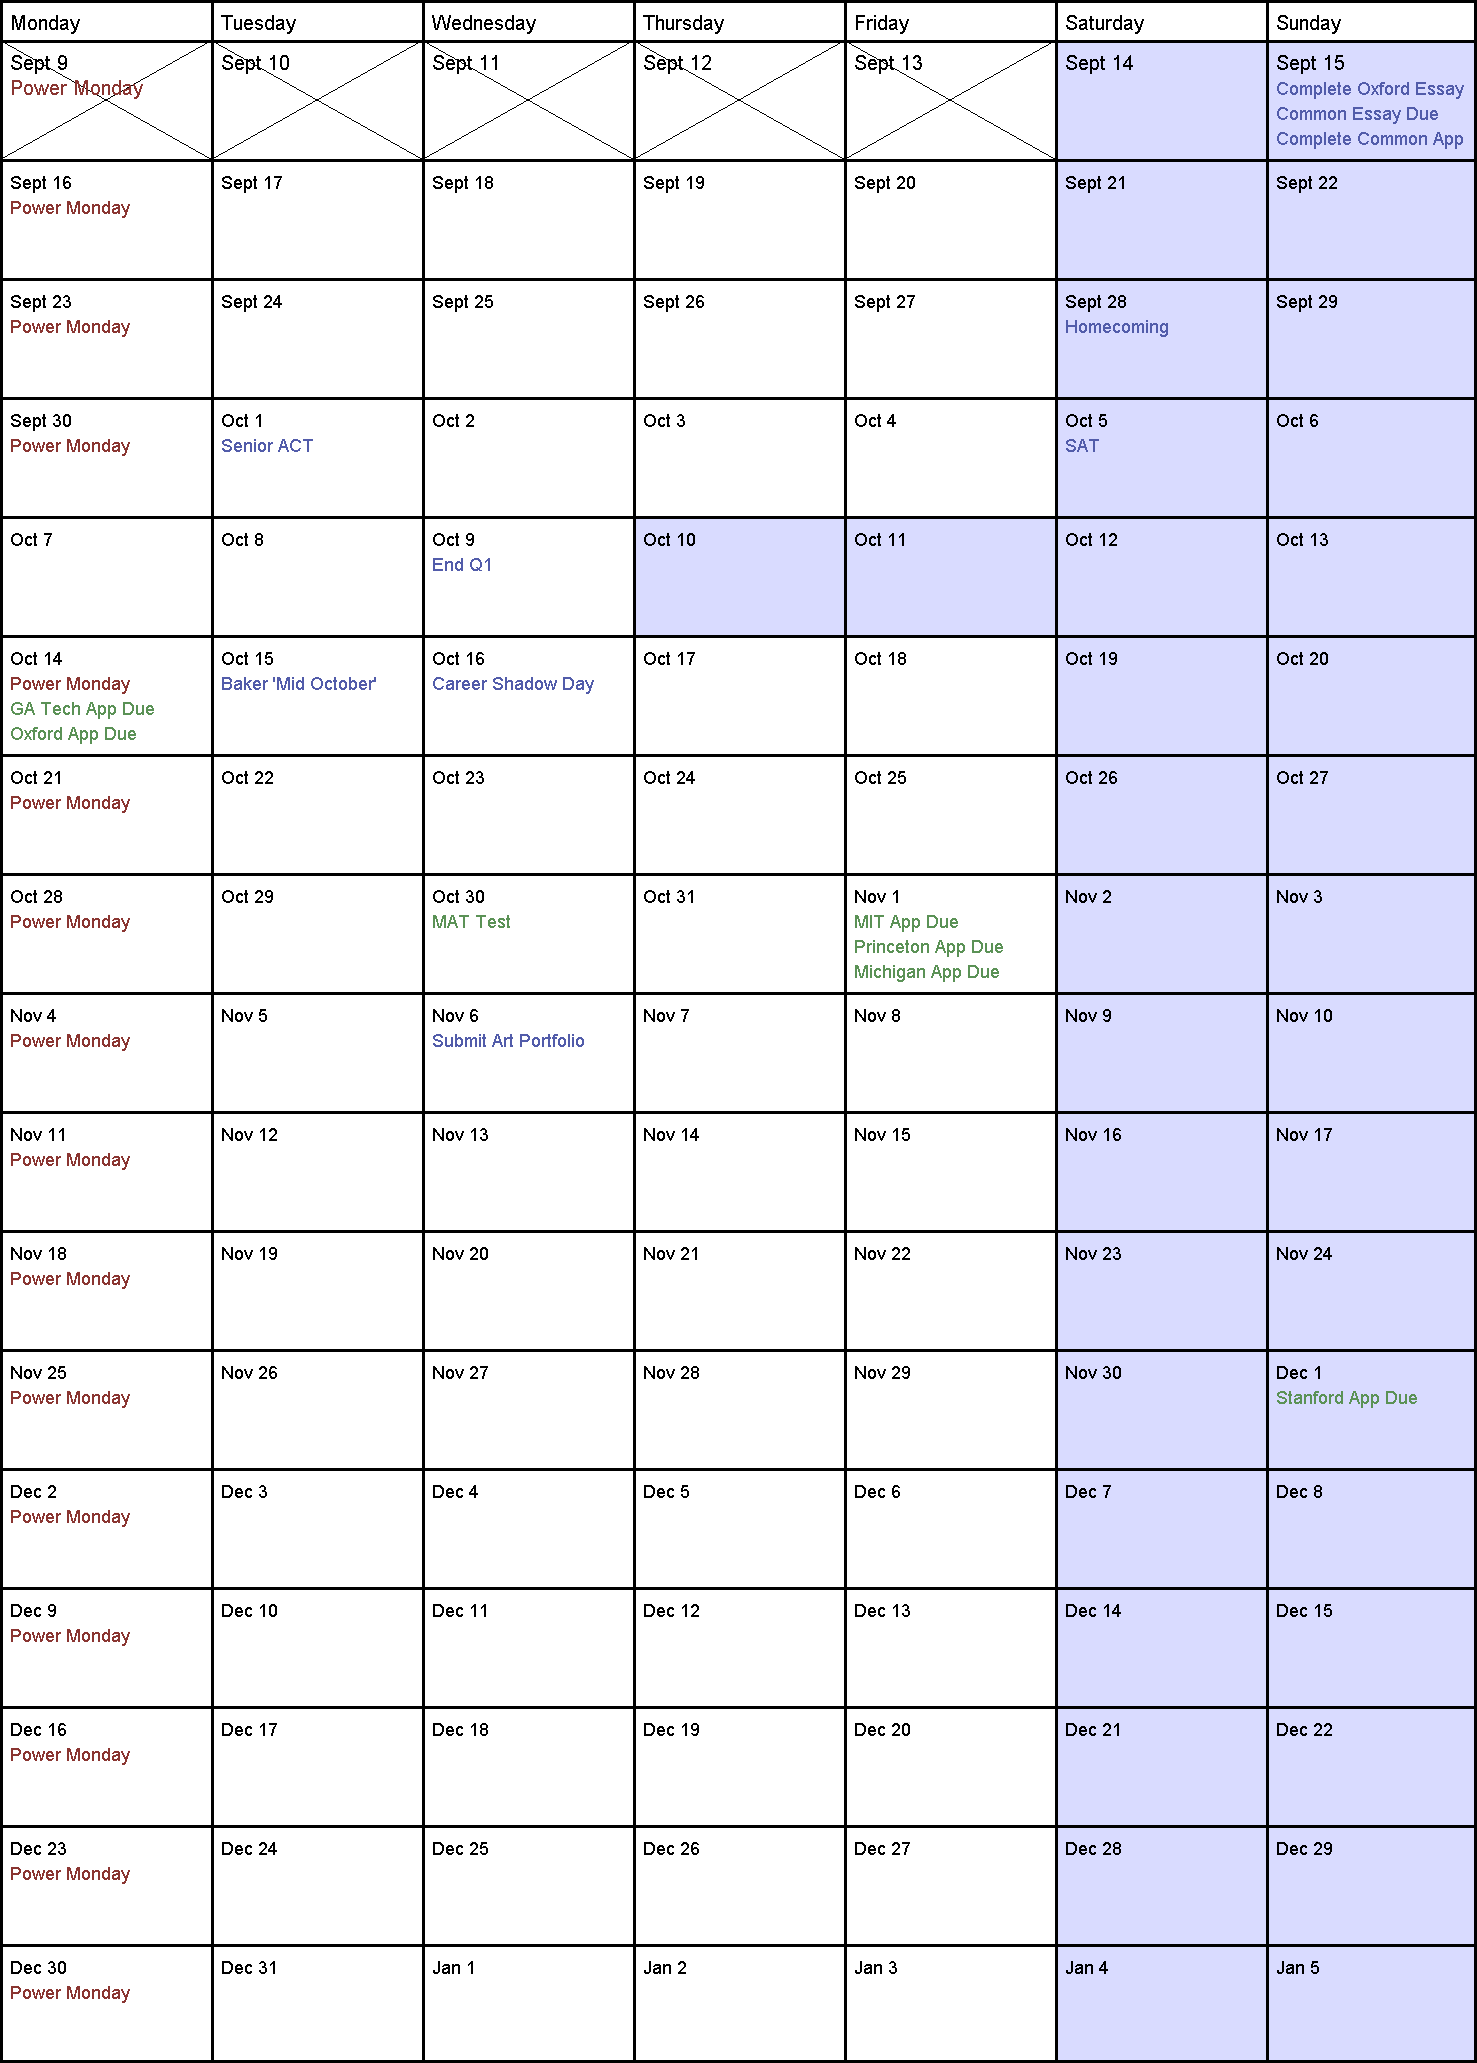
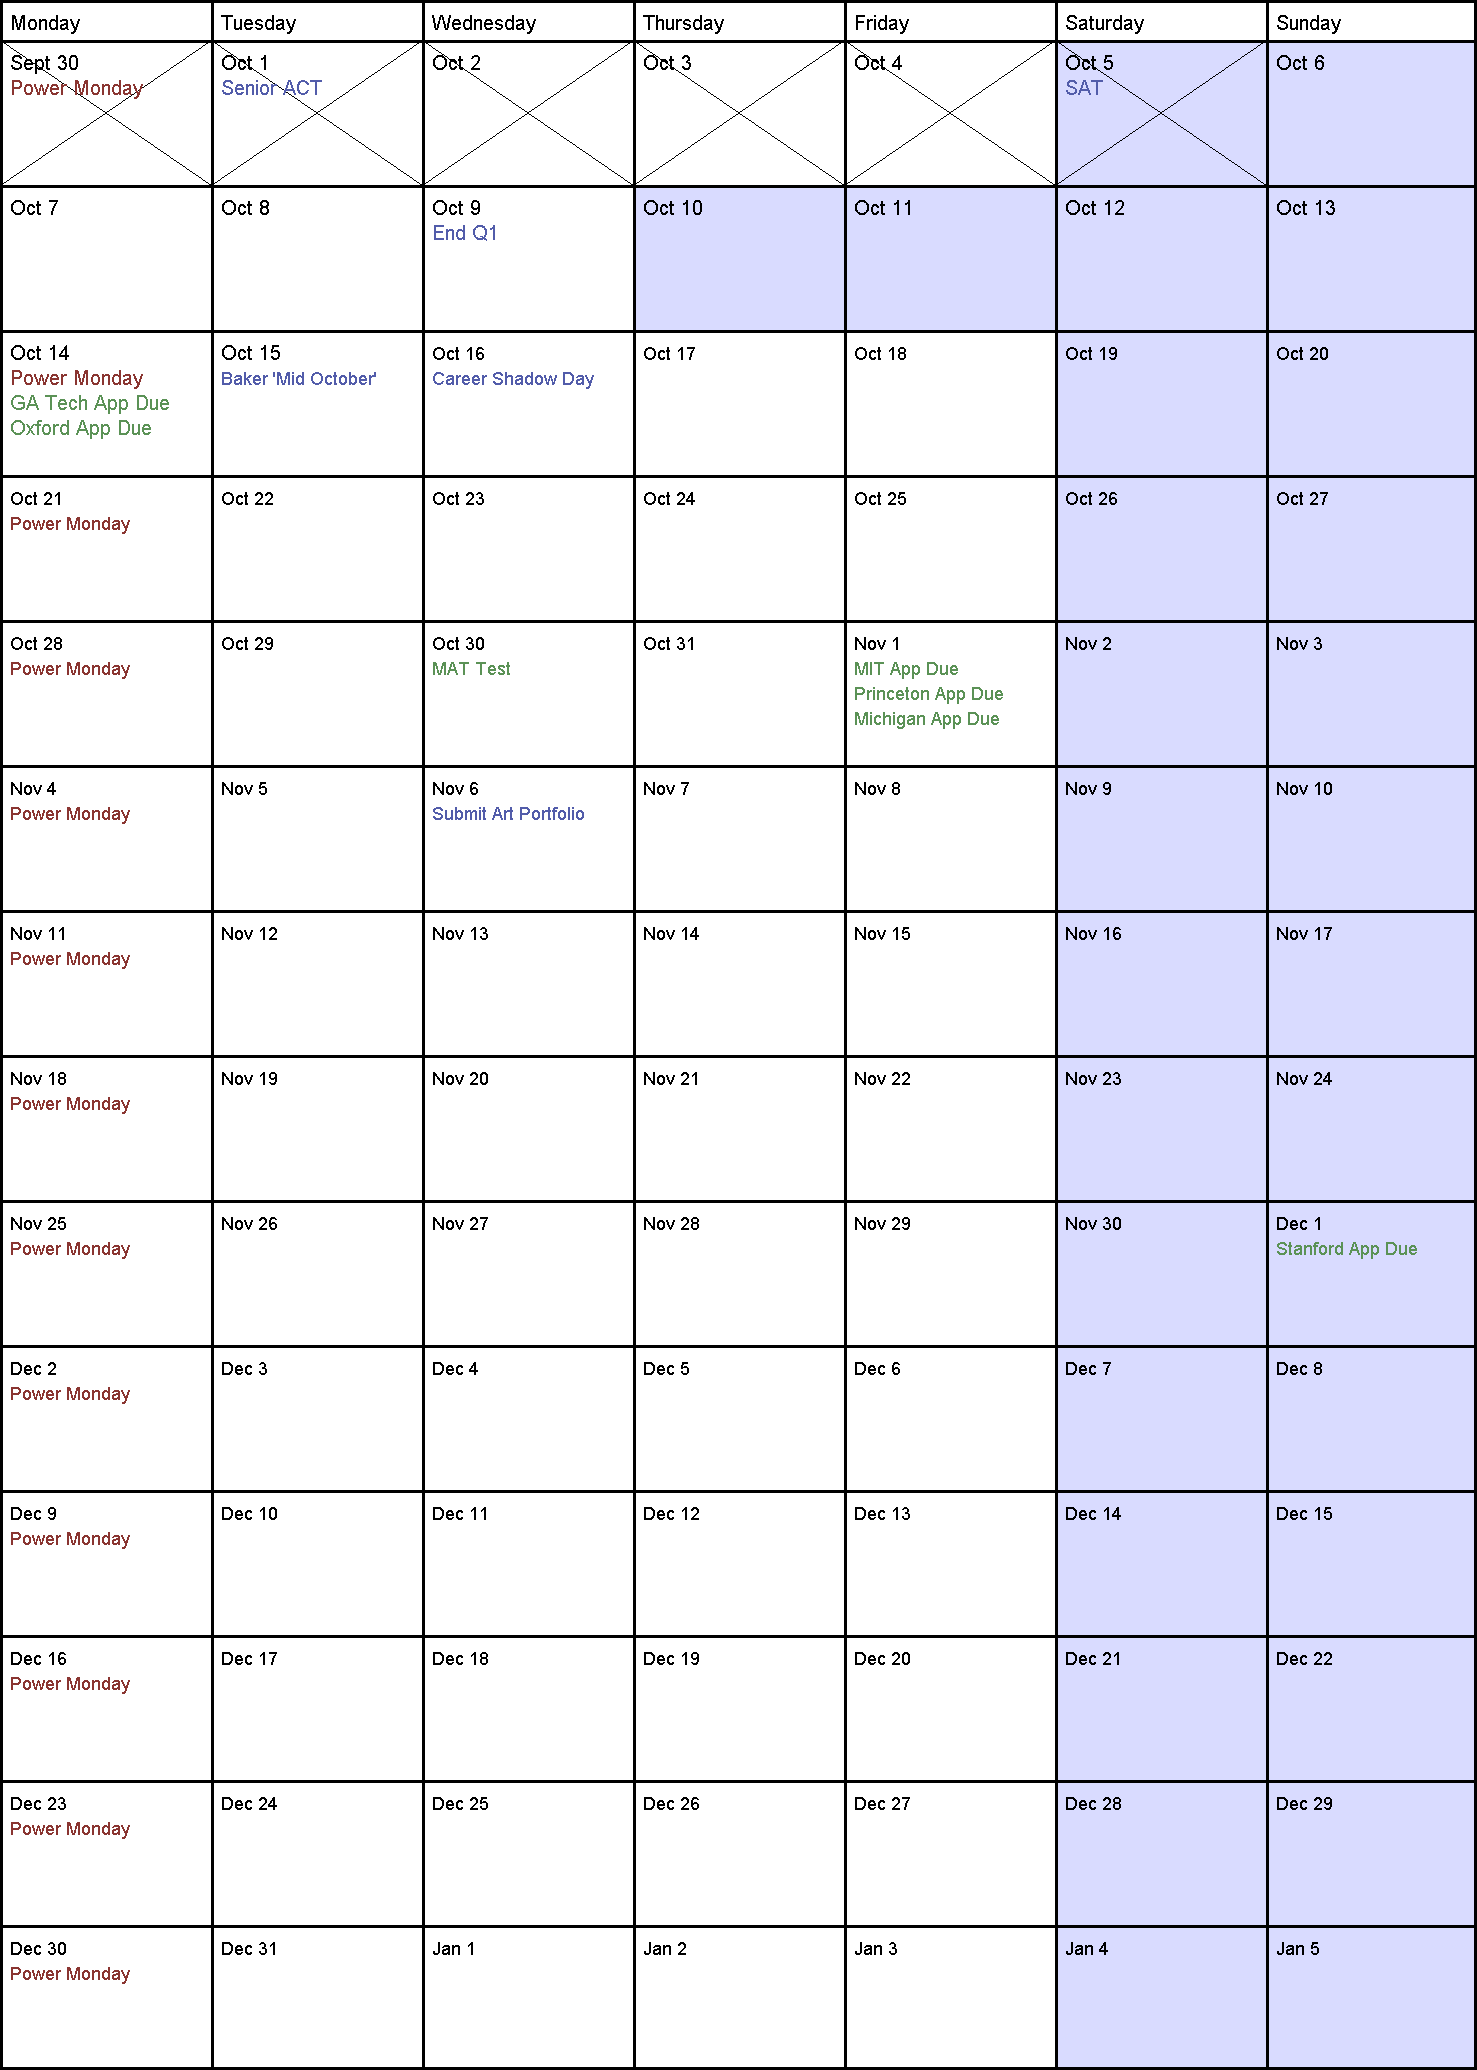
changed dates

diff --git a/src/Calendar.java b/src/Calendar.java
@@ -30,7 +30,7 @@ public class Calendar extends Applet implements Runnable, KeyListener {
     int[] daysPerMonth=new int[]{ 31  , 28  , 31  , 30  , 31  , 30   , 31   , 31  , 30   , 31  , 30  , 31  };
     String[] months=new String[]{"Jan","Feb","Mar","Apr","May","June","July","Aug","Sept","Oct","Nov","Dec"};
     int adj=1;
-    int start=getDayofYear(9,9);
+    int start=getDayofYear(30,9);
     int end=getDayofYear(5,13);
     int rows=(int)(Math.ceil((end-start)/7.0));
     int currentDay=start;
